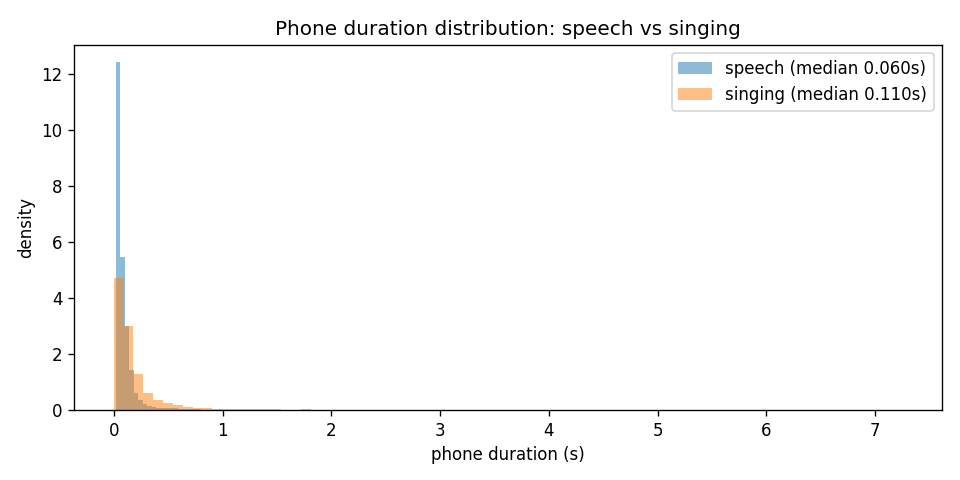
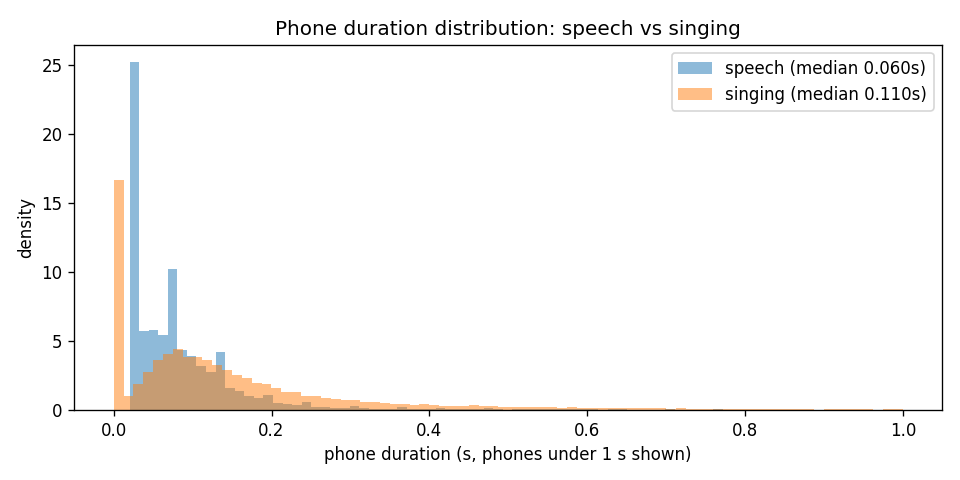
fix(analysis): replaced the empty CREPE F0 range plot with a per-speaker Harvest speech-vs-singing comparison and trimmed the duration histogram to phones under 1 s.

diff --git a/scripts/data_study.py b/scripts/data_study.py
@@ -74,9 +74,9 @@ def main():
     plt.figure(figsize=(8, 4))
     for mode, color in [("speech", "tab:blue"), ("singing", "tab:orange")]:
         d = ptab[ptab["mode"] == mode]["dur"]
-        plt.hist(d, bins=80, alpha=0.5, label=f"{mode} (median {d.median():.3f}s)",
+        plt.hist(d[d < 1.0], bins=80, alpha=0.5, label=f"{mode} (median {d.median():.3f}s)",
                  color=color, density=True)
-    plt.xlabel("phone duration (s)")
+    plt.xlabel("phone duration (s, phones under 1 s shown)")
     plt.ylabel("density")
     plt.title("Phone duration distribution: speech vs singing")
     plt.legend()
@@ -101,48 +101,42 @@ def main():
     plt.close()
     print("saved figures/duration_ratio_phones.png")
 
-    # ---- F0 range: speech (crepe on read) vs singing (crepe on sing) ----
-    # NOTE: crepe cache currently stores only sing F0. We optionally compute
-    # speech F0 here if not cached.
-    print("\nComputing speech F0 (may take a moment)...")
-    from features.crepe_f0 import extract_f0
+    # ---- F0 range: speech vs singing, one song per speaker (Harvest, the melody tracker) ----
+    print("\nComputing speech F0 with Harvest (one song per speaker)...")
+    from features.world_f0 import extract_f0_harvest
 
-    f0_stats = []
-    for it in dataset[:6]:  # subsample for speed
-        try:
-            key = f"{it['speaker_id']}_{it['utt_id']}"
-            f0_sing = cache.load("crepe", it["split"], key)
-            conf_sing = cache.load("crepe_conf", it["split"], key)
-            f0_read, conf_read = extract_f0(
-                it["read_wav"],
-                model_capacity=extract_cfg["crepe"]["model_capacity"],
-                hop_length=extract_cfg["crepe"]["hop_length"],
-                device=extract_cfg.get("device", "auto"),
-                sr=data_cfg["sample_rate"],
-            )
-            for label, f0, conf in [("speech", f0_read, conf_read), ("singing", f0_sing, conf_sing)]:
-                voiced = f0[conf >= 0.5]  # torchcrepe never outputs 0 Hz
-                if len(voiced):
-                    f0_stats.append({"mode": label, "f0": float(np.median(voiced)),
-                                     "min": float(np.min(voiced)), "max": float(np.max(voiced))})
-        except Exception as e:  # noqa: BLE001
-            print(f"  skipped {it['speaker_id']}_{it['utt_id']}: {e}")
-
-    if f0_stats:
-        sdf = pd.DataFrame(f0_stats)
-        plt.figure(figsize=(8, 4))
-        for mode, color in [("speech", "tab:blue"), ("singing", "tab:orange")]:
-            vals = sdf[sdf["mode"] == mode]["f0"]
-            plt.hist(vals, bins=30, alpha=0.5, label=f"{mode} median F0",
-                     color=color, density=True)
-        plt.xlabel("median voiced F0 (Hz)")
-        plt.ylabel("density")
-        plt.title("Median F0 distribution (sample of 6 utterances)")
-        plt.legend()
-        plt.tight_layout()
-        plt.savefig(figures / "f0_range.png", dpi=120)
-        plt.close()
-        print("saved figures/f0_range.png")
+    fcfg = extract_cfg["f0"]
+    f0_rows = []
+    for spk in sorted({it["speaker_id"] for it in dataset}):
+        it = next(i for i in dataset if i["speaker_id"] == spk)
+        key = f"{spk}_{it['utt_id']}"
+        f0_read = extract_f0_harvest(it["read_wav"], fcfg["frame_period_ms"], fcfg["fmin"], fcfg["fmax"])
+        f0_sing = cache.load("f0", it["split"], key)
+        for mode, f0 in [("speech", f0_read), ("singing", f0_sing)]:
+            v = f0[f0 > 0]  # Harvest: 0 Hz = unvoiced
+            f0_rows.append({"speaker": spk, "mode": mode, "median": float(np.median(v)),
+                            "p5": float(np.percentile(v, 5)), "p95": float(np.percentile(v, 95))})
+    fdf = pd.DataFrame(f0_rows)
+    order = fdf[fdf["mode"] == "speech"].sort_values("median")["speaker"].tolist()
+    y = {spk: i for i, spk in enumerate(order)}
+    fig, ax = plt.subplots(figsize=(8, 5.5))
+    for mode, color, dy in [("speech", "#2a78d6", -0.15), ("singing", "#eb6834", 0.15)]:
+        d = fdf[fdf["mode"] == mode]
+        ys = [y[s] + dy for s in d["speaker"]]
+        ax.hlines(ys, d["p5"], d["p95"], color=color, lw=2, alpha=0.6)
+        ax.plot(d["median"], ys, "o", ms=8, color=color, mec="#fcfcfb", mew=2, label=f"{mode}: median, bar = 5–95%")
+    ax.set_yticks(range(len(order)), order)
+    ax.set_xscale("log")
+    ax.set_xticks([100, 150, 200, 300, 400, 600], ["100", "150", "200", "300", "400", "600"])
+    ax.set_xlabel("voiced F0 (Hz, log scale)")
+    ax.set_title("Speech vs singing pitch per speaker (one song each)")
+    ax.grid(axis="x", color="#e4e3df", lw=0.8)
+    ax.spines[["top", "right"]].set_visible(False)
+    ax.legend(loc="lower right", frameon=False)
+    plt.tight_layout()
+    plt.savefig(figures / "f0_range.png", dpi=120)
+    plt.close()
+    print("saved figures/f0_range.png")
 
     # ---- phone inventory ----
     top_phones = ptab["phone"].value_counts().head(20)
